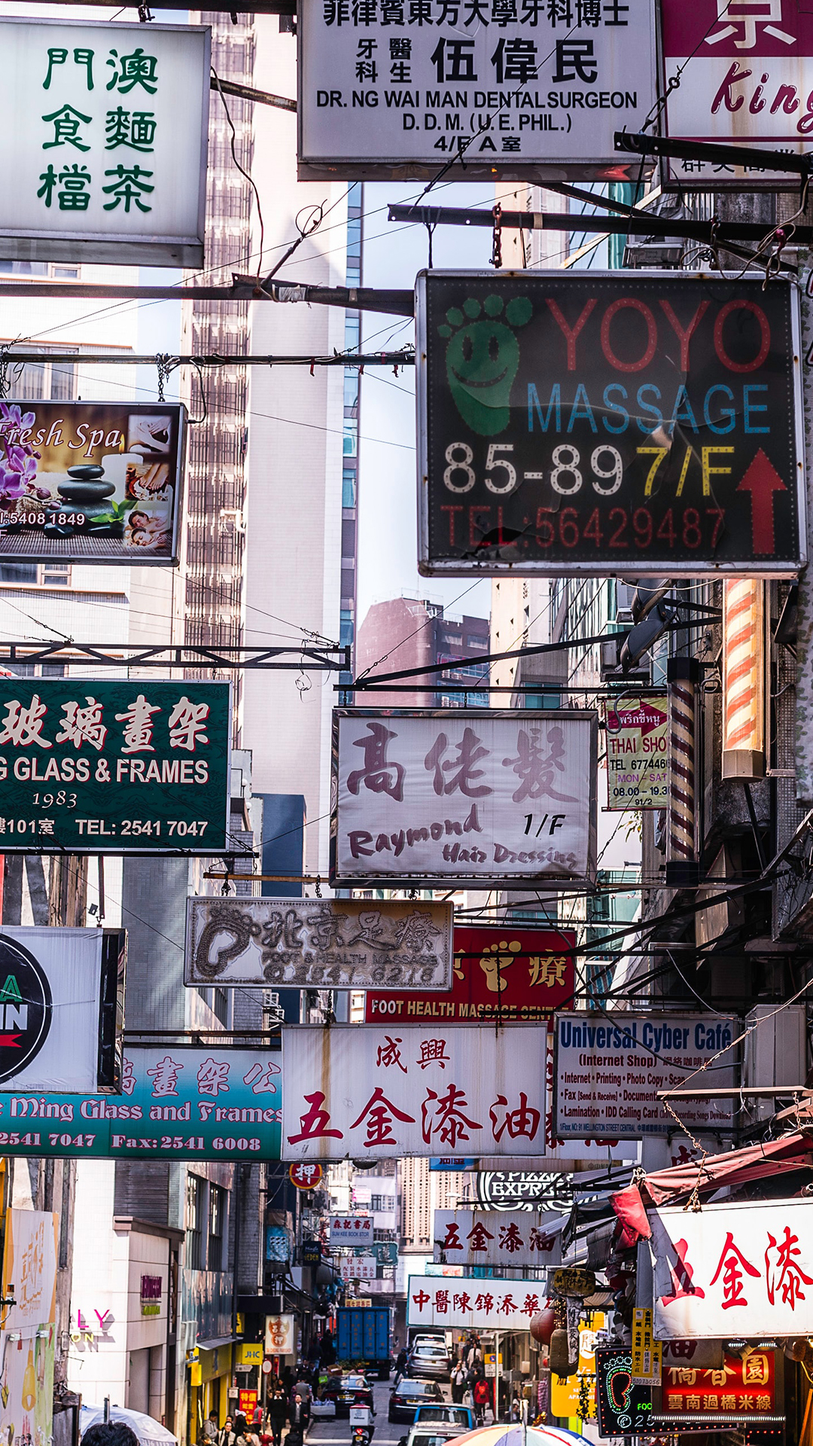
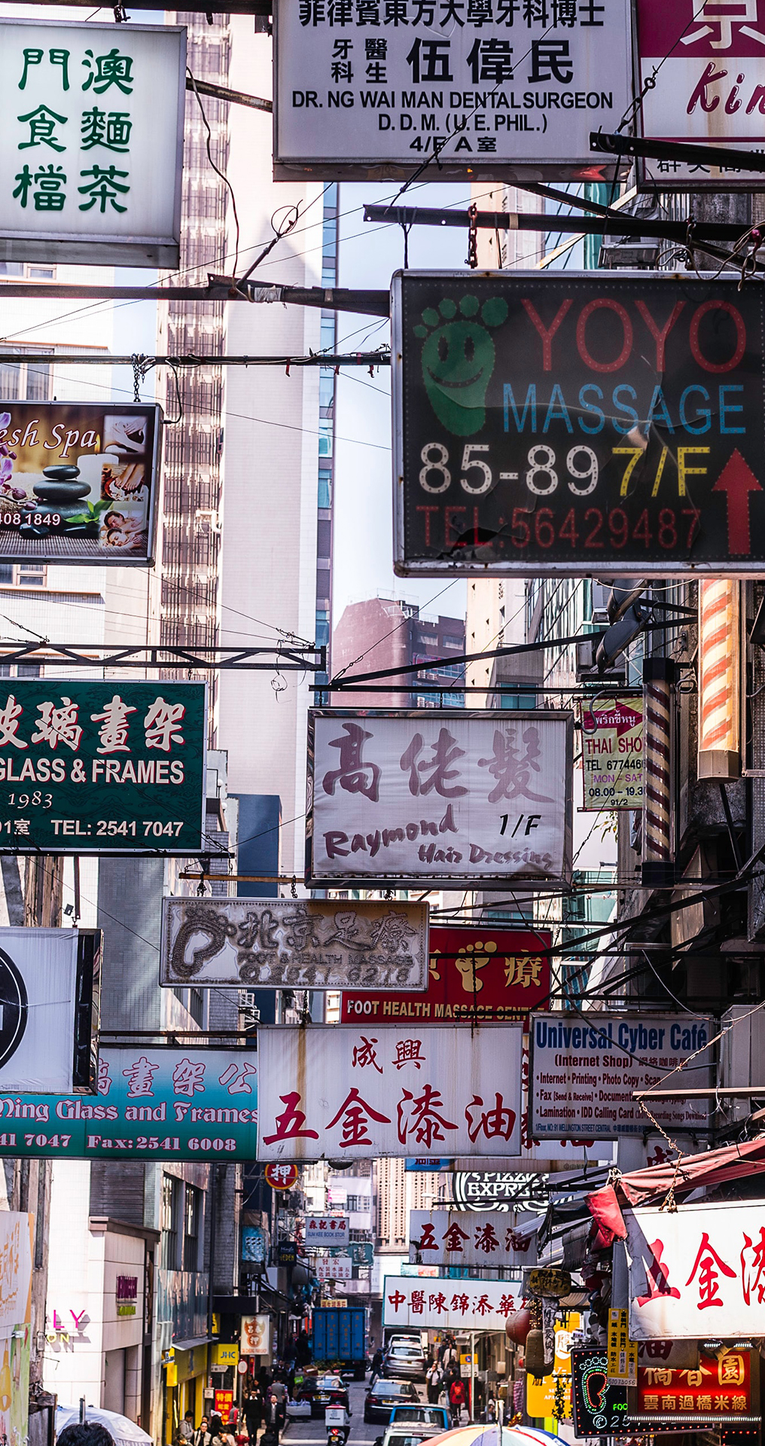
Mobile Updates
Taller assets, swapped bckground-image for image resource, background color black

diff --git a/index.html b/index.html
@@ -8,54 +8,61 @@
 
 	<div id="container">
 		<section class="panel red">
-			<div class="cover signs"></div>
+			<div class="cover signs">
+				<img class="image_full" src="img/1_signs.jpg">
+				<img class="image_mobile" src="img/1_signs_portrait.jpg">
+			</div>
 		</section>
 		<section class="panel orange">
-			<div class="cover windows"></div>
+			<div class="cover windows">
+				<img class="image_full" src="img/2_windows.jpg">
+				<img class="image_mobile" src="img/2_windows_portrait.jpg">
+			</div>
 		</section>
 		<section class="panel purple">
-			<div class="cover slums"></div>
+			<div class="cover slums">
+				<img class="image_full" src="img/3_slums.jpg">
+				<img class="image_mobile" src="img/3_slums_portrait.jpg">
+			</div>
 		</section>
 		<section class="panel green">
-			<div class="cover crowd"></div>
+			<div class="cover crowd">
+				<img class="image_full" src="img/4_crowd.jpg">
+				<img class="image_mobile" src="img/4_crowd_portrait.jpg">
+			</div>
 		</section>
 		<section class="panel grey">
-			<div class="cover market"></div>
+			<div class="cover market">
+				<img class="image_full" src="img/5_market.jpg">
+				<img class="image_mobile" src="img/5_market_portrait.jpg">
+			</div>
 		</section>
-<!-- 		<section class="panel beige">
-			<div class="cover signs2"></div>
-		</section> -->
 
 		<section class="panel one">
 			<div class="frame mask">
-				<img class="" src="img/1_mask.jpg">
+				<img src="img/1_mask.jpg">
 			</div>
 		</section>
 		<section class="panel two">
 			<div class="frame phone">
-				<img class="" src="img/2_phone.jpg">
+				<img src="img/2_phone.jpg">
 			</div>
 		</section>
 		<section class="panel three">
 			<div class="frame beanie">
-				<img class="" src="img/3_beanie.jpg">
+				<img src="img/3_beanie.jpg">
 			</div>
 		</section>
 		<section class="panel four">
 			<div class="frame shoes">
-				<img class="" src="img/4_shoes.jpg">
+				<img src="img/4_shoes.jpg">
 			</div>
 		</section>
 		<section class="panel five">
 			<div class="frame subway">
-				<img class="" src="img/5_subway.jpg">
+				<img src="img/5_subway.jpg">
 			</div>
 		</section>
-<!-- 		<section class="panel six">
-			<div class="frame mask2">
-				<img class="" src="img/1_mask.jpg">
-			</div>
-		</section> -->
 	</div>
 
 

diff --git a/style.css b/style.css
@@ -1,18 +1,3 @@
-.red {
-  background-color: #c82736;
-}
-.orange {
-  background-color: #e77614;
-}
-.purple {
-  background-color: #8d3dae;
-}
-.green {
-  background-color: #28a92b;
-}
-.grey {
-  background-color: grey;
-}
 .cover{
   width: 100%;
   height: 100vh;
@@ -21,7 +6,7 @@
   align-items: center;
   text-align: center;
 }
-img{
+.frame img{
   height: 80%;
 }
 .frame{
@@ -64,10 +49,14 @@ body {
 }
 @media only screen 
   and (orientation: landscape) { 
-    .signs{
-      background: url("img/1_signs.jpg") no-repeat center center scroll;
+    .image_full{
+      height: 100vh;
+      display: block;
     }
-    .windows{
+    .image_mobile{
+      display: none;
+    }
+/*    .windows{
       background: url("img/2_windows.jpg") no-repeat center center scroll;
     }
     .slums{
@@ -78,18 +67,22 @@ body {
     }
     .market{
       background: url("img/5_market.jpg") no-repeat center center scroll;
-    }
+    }*/
 }
 @media only screen 
   and (orientation: portrait) { 
-    img{
+    .frame img{
       height: auto;
       width: 60%;
     }
-    .signs{
-      background: url("img/1_signs_portrait.jpg") no-repeat center center scroll;
+    .image_full{
+      display: none;
     }
-    .windows{
+    .image_mobile{
+      width: 100vh;
+      display: block;
+    }
+/*    .windows{
       background: url("img/2_windows_portrait.jpg") no-repeat center center scroll;
     }
     .slums{
@@ -100,5 +93,5 @@ body {
     }
     .market{
       background: url("img/5_market_portrait.jpg") no-repeat center center scroll;
-    }
+    }*/
 }
